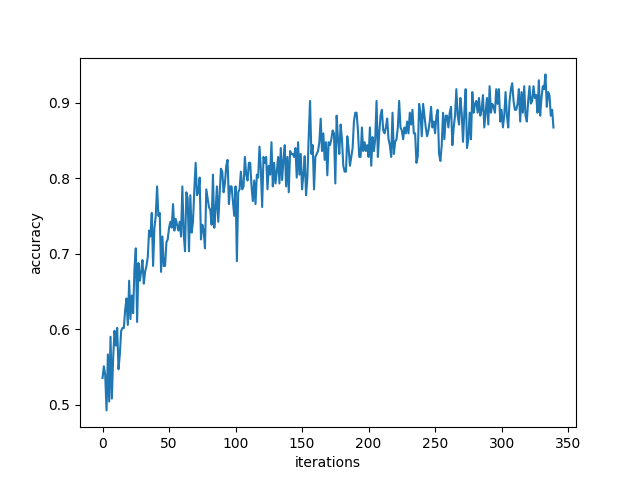
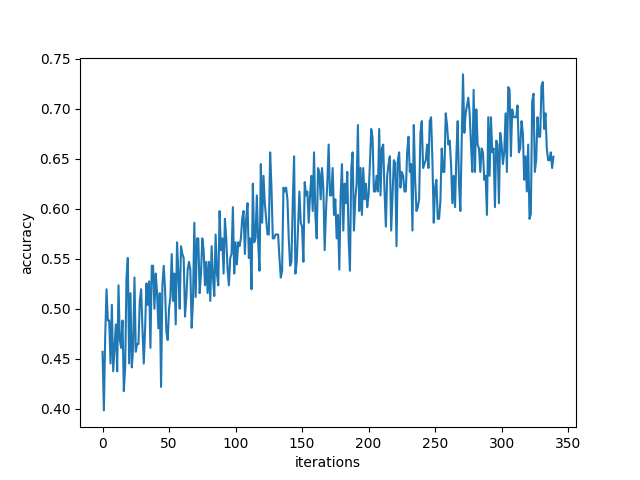
Playing with regularization

diff --git a/Nick_tests/replicate/gender_model.py b/Nick_tests/replicate/gender_model.py
@@ -139,7 +139,7 @@ def validate_epoch(model, loader, dtype):
 
     return (y_array==y_pred_array).sum()/float(y_pred_array.shape[0])
 
-dtype = torch.FloatTensor
+dtype = torch.cuda.FloatTensor
 train_csv_path = '../../data/train_face/'
 train_file_name="gender_fex_trset.csv"
 test_csv_path="../../data/test_face/"
@@ -199,10 +199,9 @@ print("defined model")
 model.type(dtype)
 model.train()
 loss_fn = nn.CrossEntropyLoss().type(dtype)
-optimizer = optim.Adam(model.parameters(), lr=1e-4,weight_decay=0.25)
-optimizer = optim.Adam(model.parameters(), lr=1e-6)
+optimizer = optim.Adam(model.parameters(), lr=5e-6,weight_decay=1e1)
 print("start training")
-loss_history,acc_history=train(train_loader, model, loss_fn, optimizer, dtype,num_epochs=10, print_every=1)
+loss_history,acc_history=train(train_loader, model, loss_fn, optimizer, dtype,num_epochs=20, print_every=17)
 
 plt.plot(range(len(loss_history)),loss_history)
 plt.xlabel("iterations")
